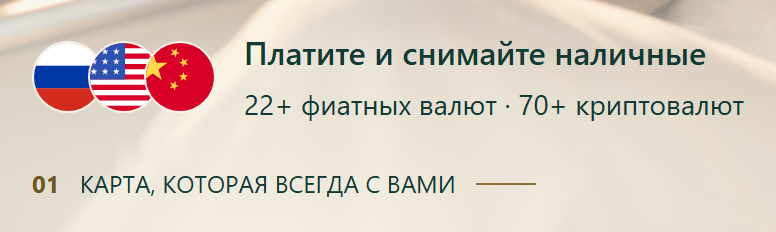
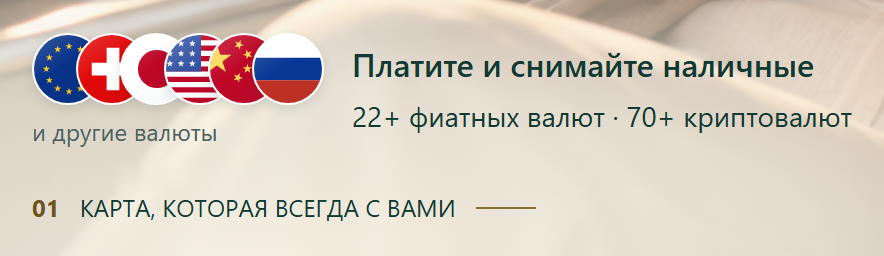
Refine auth currency samples with six overlapping fiat flags

diff --git a/frontend/src/lib/__tests__/authBusinessClassVisual.test.ts b/frontend/src/lib/__tests__/authBusinessClassVisual.test.ts
@@ -34,14 +34,14 @@ function renderShell(lang: string) {
 describe('business-class visual preserves reviewed authentication', () => {
   test('fiat-flag follow-up preserves shell outside the decorative icon group, photo scrim and other styles', () => {
     // The ab24d3da fingerprint also matches fresh main 8cbb74be after this exact
-    // normalization. Only the three-flag import, decorative span/comment and
+    // normalization. Only the six-flag import, decorative sample/comment and
     // exact subtitle grouping are exempt: localization, captions, form and auth stay locked.
     const preservedShell = shell
-      .replace(/^import \{ RU, US, CN \} from 'country-flag-icons\/react\/3x2';\n/m, '')
+      .replace(/^import \{ EU, CH, JP, US, CN, RU \} from 'country-flag-icons\/react\/3x2';\n/m, '')
       .replace("  const [fiatCaption, cryptoCaption] = t('authShell.communitySubtitle').split(' · ');\n", '')
       .replace("          <span><span className=\"vx-auth-currency-amount\">{fiatCaption} ·</span>{' '}<span className=\"vx-auth-currency-amount\">{cryptoCaption}</span></span>", "          <span>{t('authShell.communitySubtitle')}</span>")
-      .replace(/\/\*\* Decorative (?:portraits, not testimonials or an independently verified count|fiat (?:symbols|flags): ruble, US dollar and Chinese yuan, not a user count)\. \*\//, '/* Decorative icon-only follow-up. */')
-      .replace(/        <span className="vx-auth-(?:avatars|currencies)" aria-hidden="true">[\s\S]*?\n        <\/span>(?=\n        <div className="vx-auth-community-copy">)/, '        {/* Decorative icon group. */}');
+      .replace('/** Decorative currency examples, not the complete list or a user count. */', '/* Decorative icon-only follow-up. */')
+      .replace(/        <div className="vx-auth-currency-sample">[\s\S]*?\n        <\/div>(?=\n        <div className="vx-auth-community-copy">)/, '        {/* Decorative icon group. */}');
[1 lines of base64/hex data omitted]
     expect(digest(css.slice(0, css.indexOf('/* Static, localized photo captions.')) + css.slice(css.indexOf('/* Light form theme'))))
[1 lines of base64/hex data omitted]
@@ -76,8 +76,8 @@ describe('business-class visual preserves reviewed authentication', () => {
     expect(html).not.toMatch(/<picture|<h2|vx-auth-hero|vx-auth-lead|vx-auth-copyright/);
     const banner = html.split('vx-auth-brand-banner')[1].split('</section>')[0];
     expect(banner).not.toMatch(/<a\b|<button\b|<input\b|<p\b|<footer\b|HTML_LOGO/);
-    expect(banner.match(/<svg\b/g)).toHaveLength(3);
-    expect(banner.match(/class="vx-auth-currency"/g)).toHaveLength(3);
+    expect(banner.match(/<svg\b/g)).toHaveLength(6);
+    expect(banner.match(/class="vx-auth-currency"/g)).toHaveLength(6);
     // One existing Logo is available in the form header when the decorative
     // banner is omitted. Browser QA checks their mutually exclusive visibility.
     expect(html.match(/HTML_LOGO/g)).toHaveLength(1);
@@ -88,24 +88,27 @@ describe('business-class visual preserves reviewed authentication', () => {
   test.each(['ru', 'en', 'zh', 'es', 'hi', 'ja', 'ko'])('%s has localized card copy without an investor-count badge', lang => {
     const html = renderShell(lang);
     expect(html.match(/class="vx-auth-extras"/g)).toHaveLength(2);
-    expect(html.match(/class="vx-auth-currency"/g)).toHaveLength(6);
+    expect(html.match(/class="vx-auth-currency"/g)).toHaveLength(12);
     expect(html.match(/class="vx-auth-currencies" aria-hidden="true"/g)).toHaveLength(2);
+    expect(html.match(/class="vx-auth-currency-sample"/g)).toHaveLength(2);
+    expect(html.match(new RegExp(`<span class="vx-auth-currency-more">localized:${lang}:authShell.moreCurrencies</span>`, 'g'))).toHaveLength(2);
     const icons = [...html.matchAll(/<span class="vx-auth-currency" data-currency="([^"]+)">(<svg[\s\S]*?<\/svg>)<\/span>/g)];
-    expect(icons.map(icon => icon[1])).toEqual(['RUB', 'USD', 'CNY', 'RUB', 'USD', 'CNY']);
-    const { RU, US, CN } = req('country-flag-icons/react/3x2');
-    const flags: Record<string, unknown> = { RUB: RU, USD: US, CNY: CN };
+    const currencies = ['EUR', 'CHF', 'JPY', 'USD', 'CNY', 'RUB'];
+    expect(icons.map(icon => icon[1])).toEqual([...currencies, ...currencies]);
+    const { EU, CH, JP, US, CN, RU } = req('country-flag-icons/react/3x2');
+    const flags: Record<string, unknown> = { EUR: EU, CHF: CH, JPY: JP, USD: US, CNY: CN, RUB: RU };
     for (const [, currency, svg] of icons) {
       // Render the existing local package independently: incorrect country
       // selection, leftover currency glyphs and external flag images all fail.
       expect(svg).toBe(renderToStaticMarkup(React.createElement(flags[currency], { 'aria-hidden': 'true', focusable: 'false' })));
-      expect(svg).toContain('viewBox="0 0 513 342"');
+      expect(svg).toContain(`viewBox="${currency === 'EUR' ? '0 0 810 540' : currency === 'CHF' ? '0 0 768 512' : '0 0 513 342'}"`);
       expect(svg).toContain('aria-hidden="true"');
       expect(svg).toContain('focusable="false"');
-      expect(svg.match(/<path\b/g)!.length).toBeGreaterThanOrEqual(2);
+      expect(svg.match(/<(?:path|circle)\b/g)!.length).toBeGreaterThanOrEqual(2);
       expect(svg).not.toMatch(/<image\b|<use\b|<foreignObject\b|<text\b|<script\b|tabindex|onclick|href/);
     }
-    expect(new Set(icons.slice(0, 3).map(icon => icon[2])).size).toBe(3);
-    expect(html).not.toMatch(/vx-auth-avatar|community-v4|data-currency="JPY"/);
+    expect(new Set(icons.slice(0, 6).map(icon => icon[2])).size).toBe(6);
+    expect(html).not.toMatch(/vx-auth-avatar|community-v4/);
     expect(html).toContain(`localized:${lang}:authShell.communityTitle`);
     expect(html).toContain(`localized:${lang}:authShell.communitySubtitle`);
     expect(html.match(/class="vx-auth-currency-amount"/g)).toHaveLength(4);

diff --git a/frontend/src/pages/auth-shell/auth-shell.css b/frontend/src/pages/auth-shell/auth-shell.css
@@ -147,23 +147,29 @@
   bottom: clamp(20px, 2svh, 24px);
   max-width: min(440px, calc(100% - 48px));
 }
-.vx-auth-brand-localized > .vx-auth-extras { bottom: 78px; }
+.vx-auth-brand-localized > .vx-auth-extras { bottom: 78px; max-width: min(540px, calc(100% - 48px)); }
 /* Use the free lower-left width without crossing the unchanged card hand. */
 .vx-auth-brand-banner > .vx-auth-extras { max-width: min(480px, calc(60% - clamp(24px, 2.5vw, 40px))); }
 .vx-auth .vx-auth-community { display: flex; align-items: center; gap: 14px; }
-.vx-auth .vx-auth-currencies { display: inline-flex; flex: none; }
+.vx-auth .vx-auth-currency-sample { display: flex; flex: none; flex-direction: column; align-items: flex-start; gap: 6px; }
+.vx-auth .vx-auth-currencies { display: inline-flex; flex: none; align-items: center; isolation: isolate; }
 .vx-auth .vx-auth-currency {
+  position: relative;
   display: grid;
   place-items: center;
   flex: none;
   width: 36px;
   height: 36px;
-  border: 1.5px solid #f8f3e6;
+  border: 1.5px solid #fff;
   border-radius: 50%;
+  background: #fff;
+  box-shadow: 0 2px 6px rgb(18 58 51 / 12%);
   overflow: hidden;
 }
-.vx-auth .vx-auth-currency + .vx-auth-currency { margin-left: -8px; }
-.vx-auth .vx-auth-currency svg { display: block; width: auto; height: 100%; max-width: none; }
+.vx-auth .vx-auth-currency + .vx-auth-currency { margin-left: -14px; }
+.vx-auth .vx-auth-currency svg { display: block; width: auto; height: 100%; max-width: none; filter: saturate(.85); }
+.vx-auth .vx-auth-currency::after { content: ''; position: absolute; inset: 0; border-radius: inherit; pointer-events: none; background: linear-gradient(145deg, #ffffff30, #ffffff00 45%, #123a330c); }
+.vx-auth .vx-auth-currency-more { color: #47635d; font-size: 12px; font-weight: 400; line-height: 1.3; }
 .vx-auth .vx-auth-community-copy { display: flex; flex-direction: column; gap: 6px; min-width: 0; }
 .vx-auth .vx-auth-community-copy strong { font-size: 16px; font-weight: 600; line-height: 1.25; }
 .vx-auth .vx-auth-community-copy > span { font-size: 14px; font-weight: 400; line-height: 1.4; }
@@ -179,9 +185,21 @@
   .vx-auth-brand-banner > .vx-auth-extras { display: none; }
   .vx-auth.vx-auth--banner .vx-auth-work > .vx-auth-extras { display: flex; width: 100%; max-width: 410px; margin: 0 auto 24px; }
 }
-@media (max-width: 760px) {
+/* Keep the six examples within the free area between both card positions.
+   Compact desktops use the same readable type scale as the mobile caption. */
+@media (min-width: 761px) and (max-width: 1399px), (min-width: 761px) and (max-height: 820px) {
   .vx-auth .vx-auth-community { gap: 12px; }
-  .vx-auth .vx-auth-currency { width: 28px; height: 28px; }
+  .vx-auth .vx-auth-currency { width: 34px; height: 34px; }
+  .vx-auth .vx-auth-currency + .vx-auth-currency { margin-left: -16px; }
+  .vx-auth .vx-auth-community-copy strong { font-size: 15px; }
+  .vx-auth .vx-auth-community-copy > span { font-size: 13px; }
+}
+@media (max-width: 760px) {
+  .vx-auth .vx-auth-community { flex-direction: column; align-items: flex-start; gap: 12px; }
+  .vx-auth .vx-auth-currency-sample { flex-direction: row; align-items: center; gap: 12px; max-width: 100%; }
+  .vx-auth .vx-auth-currency-more { min-width: 0; }
+  .vx-auth .vx-auth-currency { width: 34px; height: 34px; }
+  .vx-auth .vx-auth-currency + .vx-auth-currency { margin-left: -12px; }
   .vx-auth .vx-auth-community-copy { text-wrap: balance; }
   .vx-auth .vx-auth-community-copy strong { font-size: 15px; }
   .vx-auth .vx-auth-community-copy > span { font-size: 13px; text-wrap: wrap; }

diff --git a/frontend/src/pages/auth-shell/AuthShell.tsx b/frontend/src/pages/auth-shell/AuthShell.tsx
@@ -1,7 +1,7 @@
 import type { ReactNode } from 'react';
 import { Link } from 'react-router-dom';
 import { ArrowUpRightIcon } from 'lucide-react';
-import { RU, US, CN } from 'country-flag-icons/react/3x2';
+import { EU, CH, JP, US, CN, RU } from 'country-flag-icons/react/3x2';
 import { Logo, LogoMark } from '../../components/Logo';
 import { LanguageSwitcher } from '../../components/LanguageSwitcher';
 import { useLanguage } from '../../lib/i18n';
@@ -9,24 +9,36 @@ import { openSupportWidget } from '../../lib/supportWidget';
 import './auth-shell.css';
 import './auth-form-premium.css';
 
-/** Decorative fiat flags: ruble, US dollar and Chinese yuan, not a user count. */
+/** Decorative currency examples, not the complete list or a user count. */
 function AuthCommunity() {
   const { t } = useLanguage();
   const [fiatCaption, cryptoCaption] = t('authShell.communitySubtitle').split(' · ');
   return (
     <div className="vx-auth-extras">
       <div className="vx-auth-community">
-        <span className="vx-auth-currencies" aria-hidden="true">
-          <span className="vx-auth-currency" data-currency="RUB">
-            <RU aria-hidden="true" focusable="false" />
+        <div className="vx-auth-currency-sample">
+          <span className="vx-auth-currencies" aria-hidden="true">
+            <span className="vx-auth-currency" data-currency="EUR">
+              <EU aria-hidden="true" focusable="false" />
+            </span>
+            <span className="vx-auth-currency" data-currency="CHF">
+              <CH aria-hidden="true" focusable="false" />
+            </span>
+            <span className="vx-auth-currency" data-currency="JPY">
+              <JP aria-hidden="true" focusable="false" />
+            </span>
+            <span className="vx-auth-currency" data-currency="USD">
+              <US aria-hidden="true" focusable="false" />
+            </span>
+            <span className="vx-auth-currency" data-currency="CNY">
+              <CN aria-hidden="true" focusable="false" />
+            </span>
+            <span className="vx-auth-currency" data-currency="RUB">
+              <RU aria-hidden="true" focusable="false" />
+            </span>
           </span>
-          <span className="vx-auth-currency" data-currency="USD">
-            <US aria-hidden="true" focusable="false" />
-          </span>
-          <span className="vx-auth-currency" data-currency="CNY">
-            <CN aria-hidden="true" focusable="false" />
-          </span>
-        </span>
+          <span className="vx-auth-currency-more">{t('authShell.moreCurrencies')}</span>
+        </div>
         <div className="vx-auth-community-copy">
           <strong>{t('authShell.communityTitle')}</strong>
           <span><span className="vx-auth-currency-amount">{fiatCaption} ·</span>{' '}<span className="vx-auth-currency-amount">{cryptoCaption}</span></span>

diff --git a/frontend/src/lib/__tests__/i18nLanguageChunks.test.ts b/frontend/src/lib/__tests__/i18nLanguageChunks.test.ts
@@ -102,6 +102,22 @@ describe('translation integrity', () => {
     expect(dicts.ru['authShell.communityTitle']).toBe('Платите и снимайте наличные');
     expect(dicts.ru['authShell.communitySubtitle']).toBe('22+ фиатных валют · 70+ криптовалют');
   });
+  it('clarifies that the displayed currency flags are a partial selection in all seven languages', () => {
+    const approvedMoreCurrencies: Record<string, string> = {
+      ru: 'и другие валюты',
+      en: 'and more currencies',
+      zh: '及更多货币',
+      es: 'y otras monedas',
+      hi: 'और अन्य मुद्राएँ',
+      ja: 'その他の通貨にも対応',
+      ko: '그 외 다양한 통화',
+    };
+    for (const code of LOCALES) {
+      const sourceKeys = [...readLocale(code).matchAll(/^\s*'([^']+)':/gm)].map(match => match[1]);
+      expect(sourceKeys.filter(key => key === 'authShell.moreCurrencies')).toHaveLength(1);
+      expect(dicts[code]['authShell.moreCurrencies']).toBe(approvedMoreCurrencies[code]);
+    }
+  });
   it('provides every shared menu description in all seven languages', () => {
     for (const code of LOCALES) for (const key of menuDescriptionKeys) expect(dicts[code][key]?.trim()).toBeTruthy();
   });
@@ -330,6 +346,8 @@ describe('translation integrity', () => {
           // Mobile terminal (2026-10-04): `git diff --numstat` over the
           // locales reports `6 0` per language, additions only.
           ...MOBILE_TERMINAL_KEYS,
+          // Currency flag selection (2026-10-07): one additive label per language.
+          'authShell.moreCurrencies',
           // Bybit 1:1 positions summary line (2026-10-07): `git diff --numstat` over the locales reports `3 0` per language.
           'futures.allPositions', 'futures.currentPositions', 'futures.totalPnl'];
         // `chart.settings.*` is the futures chart's settings dialog

diff --git a/frontend/src/lib/i18n/locales/hi.ts b/frontend/src/lib/i18n/locales/hi.ts
@@ -178,6 +178,7 @@ export const HI: Record<Key, string> = {
   'authShell.communityBadge': '12 लाख+',
   'authShell.communityTitle': 'भुगतान करें और नकद निकालें',
   'authShell.communitySubtitle': '22+ फ़िएट मुद्राएँ · 70+ क्रिप्टोकरेंसी',
+  'authShell.moreCurrencies': 'और अन्य मुद्राएँ',
   'authShell.cardCaption': 'हमेशा आपके साथ रहने वाला कार्ड',
   'authShell.supportHint': 'साइन इन करने में मदद चाहिए?',
   'authShell.supportLink': 'सहायता',

diff --git a/frontend/src/lib/i18n/locales/ru.ts b/frontend/src/lib/i18n/locales/ru.ts
@@ -182,6 +182,7 @@ export const RU = {
   'authShell.communityBadge': '1,2M+',
   'authShell.communityTitle': 'Платите и снимайте наличные',
   'authShell.communitySubtitle': '22+ фиатных валют · 70+ криптовалют',
+  'authShell.moreCurrencies': 'и другие валюты',
   'authShell.cardCaption': 'КАРТА, КОТОРАЯ ВСЕГДА С ВАМИ',
   'authShell.supportHint': 'Нужна помощь со входом?',
   'authShell.supportLink': 'Служба поддержки',

diff --git a/frontend/src/lib/i18n/locales/ja.ts b/frontend/src/lib/i18n/locales/ja.ts
@@ -178,6 +178,7 @@ export const JA: Record<Key, string> = {
   'authShell.communityBadge': '120万+',
   'authShell.communityTitle': 'お支払いと現金の引き出し',
   'authShell.communitySubtitle': '22+ の法定通貨 · 70+種類の暗号資産',
+  'authShell.moreCurrencies': 'その他の通貨にも対応',
   'authShell.cardCaption': 'いつもあなたとともにあるカード',
   'authShell.supportHint': 'ログインでお困りですか？',
   'authShell.supportLink': 'サポート',

diff --git a/frontend/src/lib/i18n/locales/ko.ts b/frontend/src/lib/i18n/locales/ko.ts
@@ -178,6 +178,7 @@ export const KO: Record<Key, string> = {
   'authShell.communityBadge': '120만+',
   'authShell.communityTitle': '결제하고 현금을 인출하세요',
   'authShell.communitySubtitle': '22+개 법정화폐 · 70+개 암호화폐',
+  'authShell.moreCurrencies': '그 외 다양한 통화',
   'authShell.cardCaption': '언제나 함께하는 카드',
   'authShell.supportHint': '로그인에 도움이 필요하신가요?',
   'authShell.supportLink': '고객 지원',

diff --git a/frontend/src/lib/i18n/locales/es.ts b/frontend/src/lib/i18n/locales/es.ts
@@ -178,6 +178,7 @@ export const ES: Record<Key, string> = {
   'authShell.communityBadge': '1,2M+',
   'authShell.communityTitle': 'Paga y retira efectivo',
   'authShell.communitySubtitle': '22+ monedas fiduciarias · 70+ criptomonedas',
+  'authShell.moreCurrencies': 'y otras monedas',
   'authShell.cardCaption': 'LA TARJETA QUE SIEMPRE VA CONTIGO',
   'authShell.supportHint': '¿Necesitas ayuda para iniciar sesión?',
   'authShell.supportLink': 'Soporte',

diff --git a/frontend/src/lib/i18n/locales/en.ts b/frontend/src/lib/i18n/locales/en.ts
@@ -179,6 +179,7 @@ export const EN: Record<Key, string> = {
   'authShell.communityBadge': '1.2M+',
   'authShell.communityTitle': 'Pay and withdraw cash',
   'authShell.communitySubtitle': '22+ fiat currencies · 70+ cryptocurrencies',
+  'authShell.moreCurrencies': 'and more currencies',
   'authShell.cardCaption': 'THE CARD THAT GOES WITH YOU',
   'authShell.supportHint': 'Need help signing in?',
   'authShell.supportLink': 'Support',

diff --git a/frontend/src/lib/i18n/locales/zh.ts b/frontend/src/lib/i18n/locales/zh.ts
@@ -179,6 +179,7 @@ export const ZH: Record<Key, string> = {
   'authShell.communityBadge': '120万+',
   'authShell.communityTitle': '支付与取现',
   'authShell.communitySubtitle': '22+ 种法定货币 · 70+ 种加密货币',
+  'authShell.moreCurrencies': '及更多货币',
   'authShell.cardCaption': '始终伴您左右的卡',
   'authShell.supportHint': '登录需要帮助？',
   'authShell.supportLink': '客户支持',

diff --git a/docs/qa/auth-business-class/README.md b/docs/qa/auth-business-class/README.md
@@ -9,9 +9,12 @@ Russian Login and Register now use only the left 919 x 941 crop of the approved
 text composition. The lossless crop preserves every decoded pixel. Its embedded
 logo and slogan appear once: no HTML headline or white card.
 The owner-requested benefits and static card caption are ordinary localized
-HTML: three local inline SVG fiat flags (RUB/RU, USD/US, CNY/CN), localized card title/subtitle,
-then `01`, the existing card label and a thin line. No shared panel, border,
-blur, raised shadow, numeric badge, carousel or testimonial claim is added.
+HTML: six overlapping local inline SVG fiat flags (EUR/EU, CHF/CH, JPY/JP,
+USD/US, CNY/CN, RUB/RU), a localized “and more currencies” hint, the existing
+card title/subtitle, then `01`, the existing card label and a thin line. Each
+circle has a thin white rim and a soft individual shadow. The block remains
+unframed, with no shared panel, border, blur, raised shadow, numeric badge,
+carousel or testimonial claim.
 No verified evidence for the previous 1.2 million investor figure was found;
 old copy and comments are not evidence. The owner replaced the neutral community
 copy with the two lines “Платите и снимайте наличные” and
@@ -58,17 +61,21 @@ The same-page resize cases additionally check window-height changes and
 of a browser-toolbar zoom interaction). Geometry uses intrinsic raster size,
 computed object-fit/object-position, painted bounds, panel coverage and protected
 source regions. Checks also cover scroll access and validation errors.
-Benefits checks require exactly one visible pair, three distinct local inline
-currency flag SVGs (not portraits or external images), decorative accessibility semantics, localized card copy without the
-unsupported investor counter, exact 22+/70+ product figures, transparent unframed wrappers, and no protected-region or
-form/support/legal overlap. The prior behavior and geometry checks remain.
-Local result: 38 main cases + 12 resize/zoom-reflow cases PASS, CLS 0 on initial
+Benefits checks require exactly one visible pair, six distinct local inline
+currency flag SVGs in the approved order, uniform circles in one overlapping
+row, thin white rims, soft individual shadows and decorative accessibility
+semantics. The localized hint explicitly identifies the flags as a partial
+selection. Existing card copy, exact 22+/70+ product figures, transparent
+unframed wrappers, and no protected-region or form/support/legal overlap are
+also checked. The prior behavior and geometry checks remain.
+Local result: 38 main cases + 12 resize/zoom-reflow cases + two high-DPI detail
+captures PASS, CLS 0 on initial
 loads; no horizontal overflow, clipped content, failed images, unexpected
 console/runtime errors, external traffic or forwarded writes. Password reveal,
 tab navigation and the safe return query are checked on the real DOM.
 
-Three additional behavior cases use four explicitly intercepted local POST
-fixtures: login error, 2FA challenge/error/back, register validation/error. No
+Three additional behavior cases PASS using four explicitly intercepted local
+POST fixtures: login error, 2FA challenge/error/back, register validation/error. No
 request reaches a backend; no account/session/financial operation is made. The
 report separates fixture requests from any forbidden writes.
 
@@ -77,28 +84,35 @@ uploads a SHA-named report/screenshots artifact. The independent full frontend
 regression workflow remains enabled and unmodified. Existing callback tests
 still cover login, 2FA, session, safe redirect, registration, referral and error
 handling; source fingerprints prove the functional form files are unchanged.
-The lower block uses a 6px text-row gap, 12–14px icon/text gap with vertical
-centering, and a 22px gap before the unchanged static card caption. Desktop
-checks require each phrase on one line at normal requested widths. Fonts remain
-16/14px on desktop and 15/13px on mobile; only the lower block is restyled.
+The lower block uses a 6px text-row gap and a 22px gap before the unchanged
+static card caption. Wide desktops use 36px circles with 14px overlap, a 14px
+flag/copy gap and 16/14px title/subtitle type. The hint sits below the flags;
+the title/subtitle is vertically centered beside this group. Compact desktops
+(width <=1399px or height <=820px, while the banner slot is available) use
+34px circles, 16px overlap, a 12px gap and 15/13px title/subtitle type. At
+width <=760px, 34px flags with 12px overlap and the hint share a horizontal
+row, with the 15/13px title/subtitle below. The longer non-Russian copy has
+up to 540px of available lower-caption width without changing photo or form
+geometry. Only the lower block is restyled.
 High-DPI browser crops: [Login](login-block-2x.png) / [Register](register-block-2x.png).
 At <=760px viewport height the lower block alone uses its existing post-form
 slot to avoid covering the cards under zoom; the photo and form keep their
-geometry. This also accommodates wider platform font metrics without shrinking
-the text or overlapping the black card at a 700px window height.
-Preservation locks also cover the shell markup outside the fiat-icon row, all CSS outside these captions,
+geometry. This also accommodates wider platform font metrics without
+overlapping the black card at a 700px window height.
+Preservation locks also cover the shell markup outside the currency presentation, all CSS outside these captions,
 and the unchanged soft bottom gradient. No global number replacement is used.
-Local TypeScript/build and 176 targeted tests passed. Fresh remote exact-head
-results are recorded on the follow-up PR; #466 CI is not evidence for this revision.
+Local TypeScript/build and 177 targeted tests passed. Fresh remote exact-head
+CI is still required for this follow-up; earlier PR/head results are not
+evidence for this revision.
 No checks are waived or disabled.
 
 The fiat-logo reference is TradingView's [USD/RUB](https://www.tradingview.com/symbols/USDRUB/)
 and [USD/CNY](https://www.tradingview.com/symbols/USDCNY/) country-flag treatment.
 Implementation reuses the existing MIT-licensed `country-flag-icons/react/3x2`
-package, not TradingView CDN assets. Each flag fills its original 36/28px circular
-footprint with centered, proportionate clipping. No new dependency, remote logo
-request, new generation or investor count. Only the lower Russian block gains
-available width for the longer fiat caption; the photo and form geometry are unchanged.
+package, not TradingView CDN assets. The current six-flag follow-up adds the
+EUR, CHF and JPY examples and keeps centered, proportionate circular clipping.
+No new dependency, remote logo request, new generation or investor count.
+Photo assets, form geometry and the existing bottom scrim are unchanged.
 
 ## Publication boundary
 
